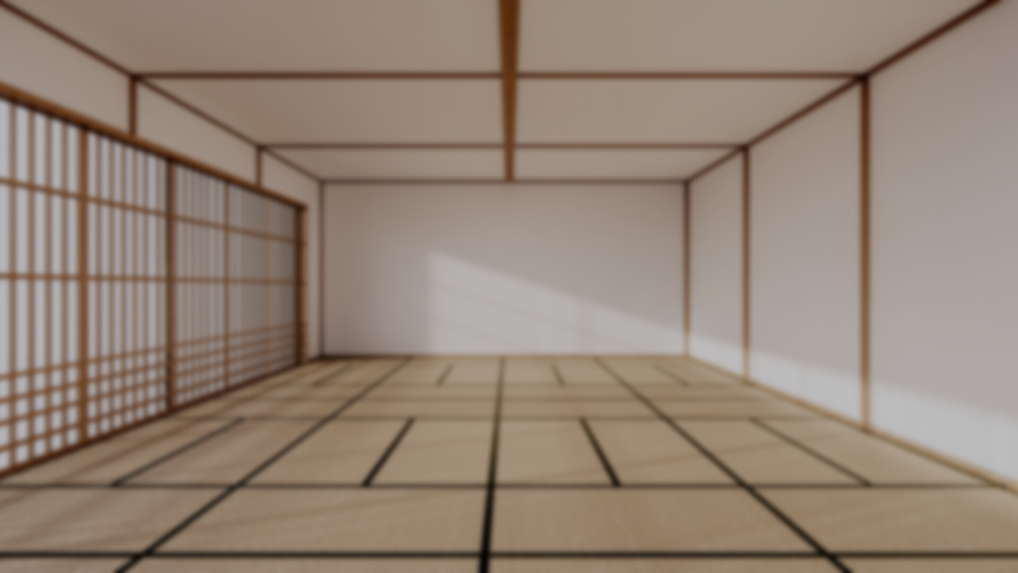
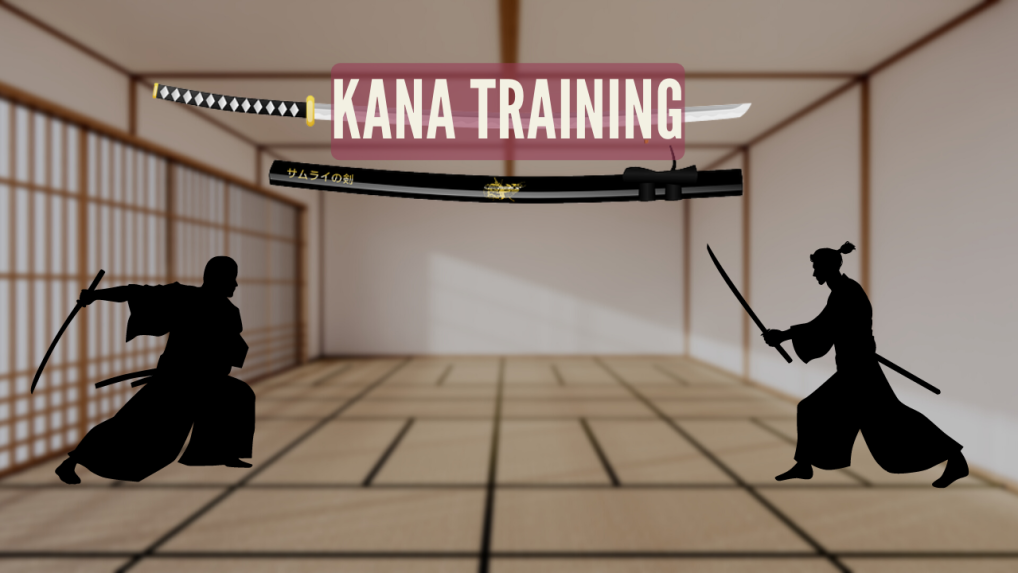
Change background image

diff --git a/src/main/resources/fr/projectGroup/appkana/css/HomePageStyle.css b/src/main/resources/fr/projectGroup/appkana/css/HomePageStyle.css
@@ -3,13 +3,6 @@
     -fx-font-weight: 800;
 }
 
-#welcomeTitleLabel {
-    -fx-font-size: 32px;
-    -fx-font-family: "Arial Black";
-    -fx-text-fill: #818181;
-    -fx-effect: innershadow(three-pass-box, rgba(0,0,0,0.7), 6, 0, 0, 2);
-}
-
 #errorButtonMessage {
     -fx-text-fill: red;
 }

diff --git a/src/main/java/fr/projectGroup/appkana/controller/ResultPageController.java b/src/main/java/fr/projectGroup/appkana/controller/ResultPageController.java
@@ -1,3 +1,9 @@
+/**
+ * This class is the JavaFX controller of the 'result' page of the application.
+ *
+ * @author FlorianLopitaux
+ */
+
 package fr.projectGroup.appkana.controller;
 
 import javafx.fxml.FXML;
@@ -20,6 +26,15 @@ public class ResultPageController extends VBox implements JavaFXControllable {
 
 
     // CONSTRUCTOR
+    /**
+     * The constructor of the
+     *
+     * @param primaryStage
+     * @param playerScore
+     * @param nbKanaToGuess
+     * @param isHiraganaChecked
+     * @param isKatakanaChecked
+     */
     public ResultPageController(Stage primaryStage, int playerScore, int nbKanaToGuess, boolean isHiraganaChecked, boolean isKatakanaChecked) {
         this.primaryStage = primaryStage;
         this.nbKanaToGuess = nbKanaToGuess;
